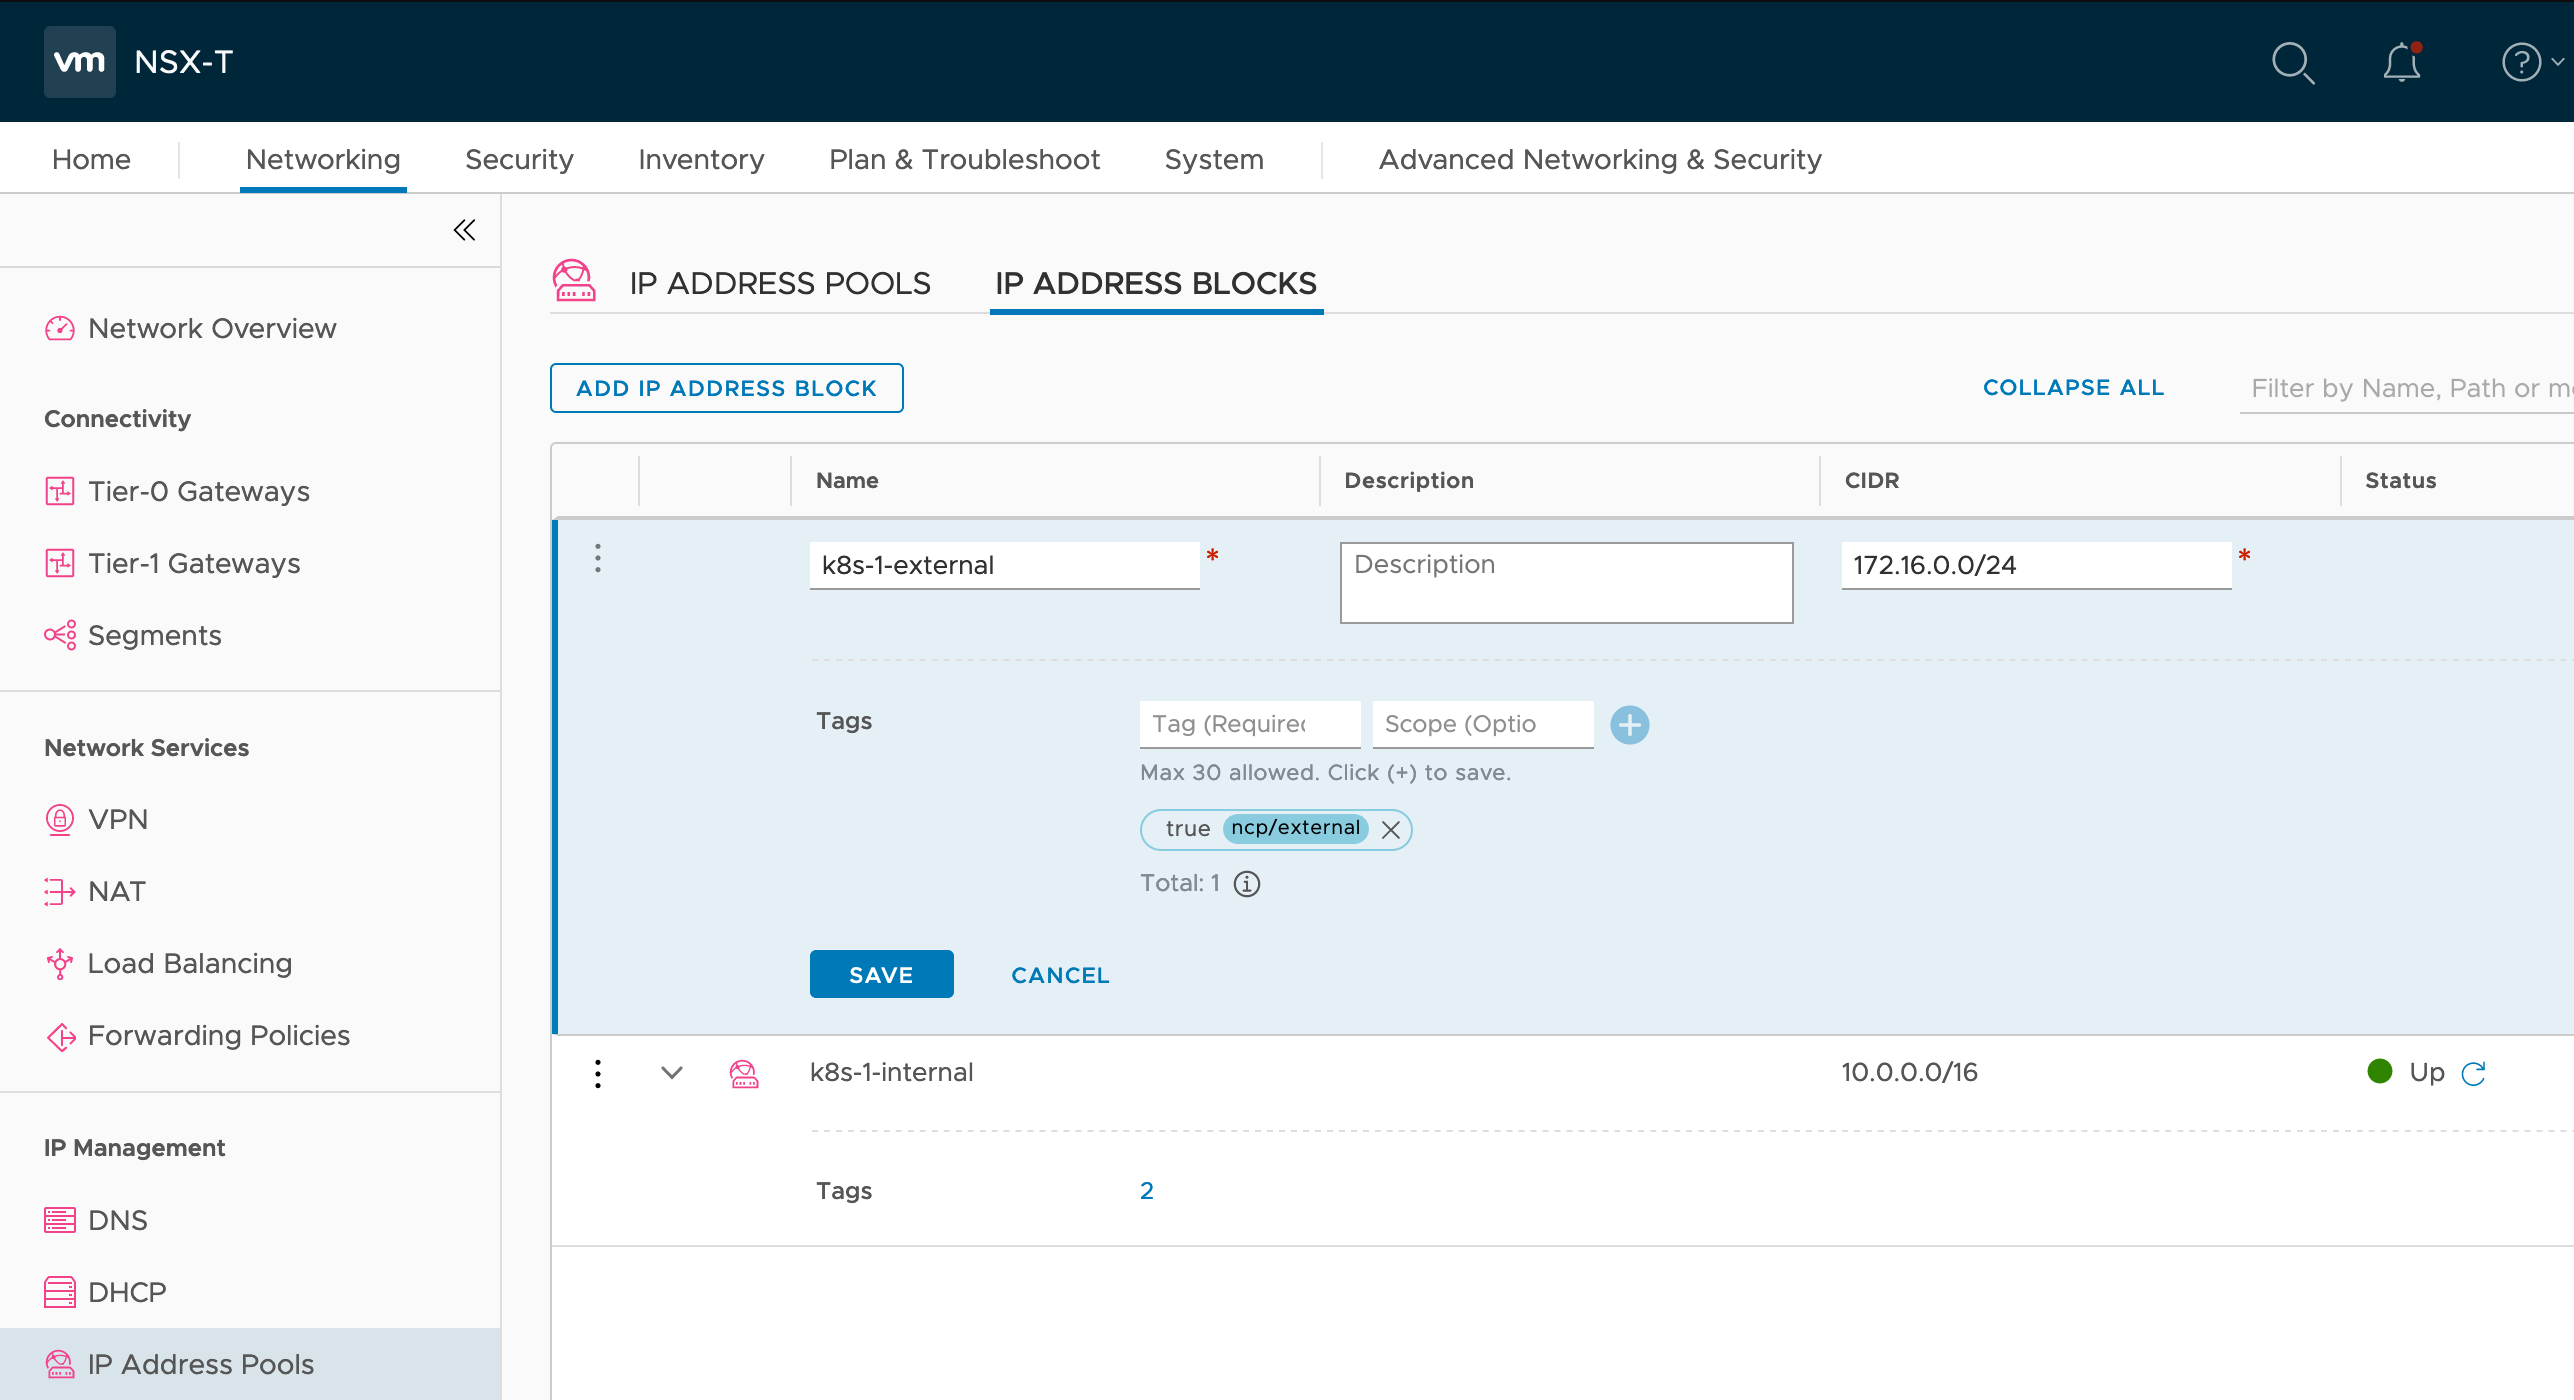
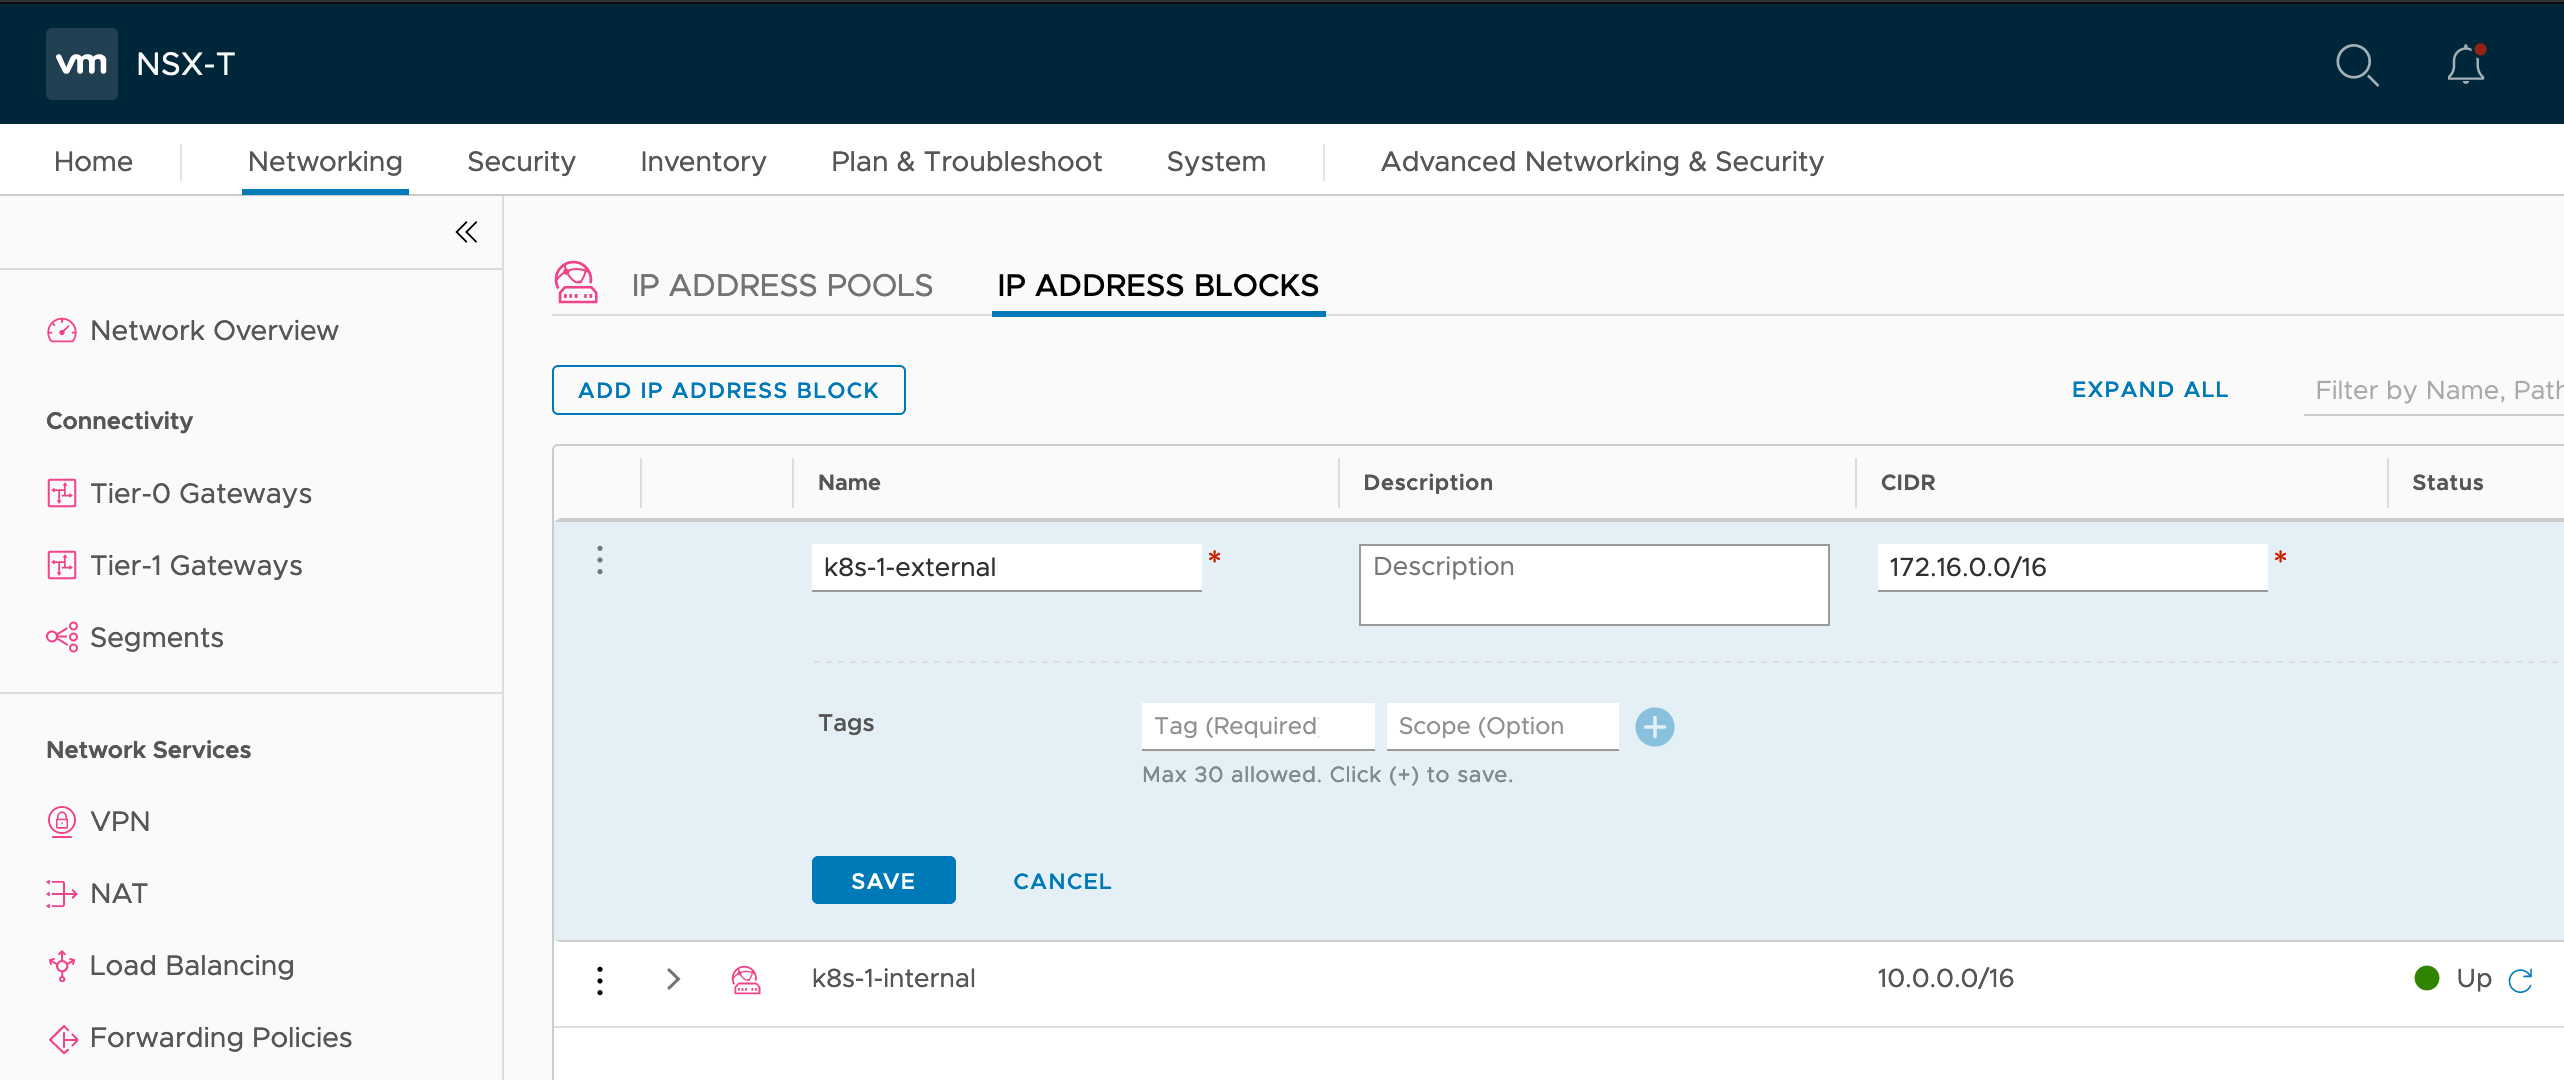
minor text fixes

diff --git a/_posts/2019-12-09-k8s-nsxt.md b/_posts/2019-12-09-k8s-nsxt.md
@@ -43,8 +43,10 @@ Another change I am interested in exploring is the simplified installation. In t
 ## NSX Object Tagging
 There can be many objects deployed within NSX-T, the NSX Container Plugin (NCP) needs to understand which of these objects to interact with. The NSX objects which the NSX Container Plugin (NCP) needs to interact with include the overlay transport zone, the tier-0 logical router, the logical switch to connect the node VMs, the IP Block for Pods IP addressing and an IP Block for external IP addressing. The NSX Container Plugin (NCP) configuration is stored in ncp.ini file. It is possible to put the UUID of NSX objects in the ncp.ini but this great for ongoing maintenance. The mapping of which NSX objects should be used is better achieved by applying tags to the correct NSX objects.
 
-## Configure Tier-0 and Overlay
-In order for the NSX Container Plugin to recognize the Tier-0 Logical Router and overlay transport zone as being for our lab Kubernetes cluster we need to add a tag for ncp/cluster. For this environment I am configuring with cluster name 'pandora' so the Tier-0 Logical Router and overlay transport zone should have tag applied like this:
+For this environment I am configuring with cluster name 'pandora'.
+
+## Configure Tier-0 and Overlay Transport Zone
+In order for the NSX Container Plugin to recognize the Tier-0 Logical Router and overlay transport zone as being for our lab Kubernetes cluster we need to add a tag for scope ncp/cluster. The Tier-0 Logical Router and overlay transport zone should have tag applied like this:
 
 | Tag            | Scope         |
 | -------------- |:-------------:|
@@ -54,36 +56,33 @@ In order for the NSX Container Plugin to recognize the Tier-0 Logical Router and
 
 <img src="/images/k8s-nsxt-overlay.png">
 
-## Configure IP Block and IP Pool
-NSX-T has an inbuilt capability for IP Management, in this we can allocate the blocks of IP Addresses we defined earlier.
+## Configure Pod Internal IP Block
+NSX-T has an inbuilt capability for IP Management, in this we can allocate the blocks of IP Addresses we defined earlier. In order for the NSX Container Plugin to recognize these as being the IP blocks to use for our lab Kubernetes cluster we need to add a tag for ncp/cluster. To recognize an IP Block to issue ClusterIP for the cluster in we also need to add a tag for ncp/no_snat.
 
-In order for the NSX Container Plugin to recognize these as being the IP blocks to use for our lab Kubernetes cluster we need to add a tag for ncp/cluster. To recognize an IP Block to issue ClusterIP for the cluster in we also need to add a tag for ncp/no_snat.
-
-| Tag            | Scope         |
-| -------------- |:-------------:|
-| <cluster_name> | ncp/cluster   |
-| <cluster_name> | ncp/no_snat   |
-
-For this environment I am configuring with cluster name 'pandora' so the IP Blocks for ClusterIP it should be tagged like this:
+Create the 10.0.0.0/16 IP address block named k8s-1-internal with these tags applied.
 
 | Tag            | Scope         |
 | -------------- |:-------------:|
 | pandora        | ncp/no_snat   |
 | pandora        | ncp/cluster   |
 
-Create the 10.0.0.0/16 IP address block named k8s-1-internal with correct tags applied.
-
 <img src="/images/k8s-nsxt-internal-block.png">
 
-When Kubernetes services need to be accessed externally they require an IP Address the NCP can issue these from an NSX IP Pool. Create an IP Block named k8s-1-external with CIDR 172.16.0.0/16. Create an IP Pool named k8s-1-loadbalancer which has a subnet from IP Block k8s-1-external which is sized at 128. In order for the NSX Container Plugin to recognize an IP Pool to issue ExternalIP it should be tagged like this:
+## Configure Pod External IP Block and IP Pool
+
+When Kubernetes services are configured to be accessed externally they require an IP Address the NCP can issue these from an NSX IP Pool. Create an IP Block named k8s-1-external with CIDR 172.16.0.0/16. This IP Block isn't accessed directly by NCP so does not need any tags.
+
+<img src="/images/k8s-nsxt-external-block.png">
+
+Create an IP Pool named k8s-1-loadbalancer which has a subnet from IP Block k8s-1-external which is sized at 128. In order for the NSX Container Plugin to recognize an IP Pool to issue ExternalIP it should be tagged like this:
 
 | Tag            | Scope         |
 | -------------- |:-------------:|
 | true           | ncp/external  |
 
-<img src="/images/k8s-nsxt-external-block.png">
+<img src="/images/k8s-nsxt-external-pool.png">
 
-## Create NSX Logical Switch
+## Configure NSX Logical Switch
 Network connectivity to the containers running in Kubernetes is provided by a NSX-T logical switch segment which is often referred to as the node logical switch. For this I created a new segment called 'node-logical-switch' within the 'overlayTransportZone' connected to no gateway.
 
 In order for the NSX Container Plugin to recognize this Logical Switch for the cluster we also need to add a tag for ncp/cluster. For this environment I am configuring with cluster name 'pandora' so the Logical Switch is tagged like this:
@@ -95,7 +94,7 @@ In order for the NSX Container Plugin to recognize this Logical Switch for the c
 <img src="/images/k8s-nsxt-logical-switch.png">
 
 ## Create Kubernetes Cluster VM
-For the purposes of this we will need a very basic Kubernetes cluster,  create a Ubuntu 18.04 VMs with 2x CPU, 4GB RAM and 50GB vHDD named k8s-master.
+For the purposes of this we will need a very basic Kubernetes cluster,  create a Ubuntu 18.04 VM with 2x CPU, 4GB RAM and 50GB vHDD named k8s-master.
 
 The VM should have two vNIC one which is used to communicate with NSX API and which will host Kubernetes API. The second connected to the node logical switch which will have the Open vSwitch (OVS) bridge configured to give connectivity to the Pods. In my lab first connected to 'VM Network' enumerates as ens160 and the scond connected to 'node-logical-switch' enumerates as ens192.
 
@@ -120,13 +119,6 @@ network:
 
 ## Tag Kubernetes VM Logical Switch Port
 The Kubernetes VM connection to 'node-logical-switch' creates a segment ports object in NSX-T. The NSX-T Container Plug-in (NCP) needs to understand this mapping. To form this relationship two tags should be applied to each segment port:
-
-| Tag            | Scope         |
-| -------------- |:-------------:|
-| <node_name>    | ncp/node_name |
-| <cluster_name> | ncp/cluster   |
-
-For this environment I am configuring with cluster name 'pandora' so the segment port attached to Kubernetes master VM is tagged like this:
 
 | Tag            | Scope         |
 | -------------- |:-------------:|
@@ -198,13 +190,9 @@ We can see this reason for the error is 'NetworkPluginNotReady' that the Contain
 
 ## Install and Configure NSX Container Plug-in (NCP)
 
-The NSX Container Plug-in (NCP) provides integration between NSX-T and Kubernetes, it is a containerised application which manages communicates between NSX Manager and the Kubernetes control plane. As well as the NCP there is a NSX DaemonSet comprised of two containers, the NSX Node Agent and the NSX Kube-Proxy. The NSX Node Agent is a container image which manages the container network interface. The NSX Kube-Proxy is a container image which replaces the native distributed east-west load balancer in Kubernetes with the NSX load-balancer based on Open vSwitch (OVS). The NSX Container Network Interface (CNI) is a plug-in which runs on each Kubernetes node. It provides a connection between the container interface to the node Open vSwitch, and programs the node Open vSwitch to tag and forward container traffic.
+The NSX Container Plug-in (NCP) provides integration between NSX-T and Kubernetes, it is a containerised application which manages communicates between NSX Manager and the Kubernetes control plane. The NSX Container Plug-in (NCP) application runs in Kubernetes it is supplied as .zip download. The configuration of the NCP applications is maintained in a Kubernetes manifest file.
 
-<img src="/images/nsx-k8s.jpeg">
-
-The NSX Container Plug-in (NCP) application runs in Kubernetes it is supplied as .zip download. The configuration of Kubernetes applications is maintained in a manifest file. 
-
-Kubernetes applications also require container image files. The NSX Container Plug-in (NCP) ships with three Docker container images one each for Photon, RHEL and Ubuntu (Kubernetes\nsx-ncp-ubuntu-2.5.0.14628220.tar). We could deploy this to a local container registry like Harbor but for simple lab just import the image to the local repository on all Kubernetes nodes (Master and Worker). Extract from zip and copy the container image to all Kubernetes nodes (Master and Worker). The default container image name specified in the manifest is nsx-ncp so we can apply that as tag on the image.
+The NCP application ships a container image file we could deploy this to a container registry but here we will just upload the image file to VM and import the image to the local docker repository. The default container image name specified in the manifest is nsx-ncp so we can apply that as tag on the image.
 
 ```
 sudo docker load -i /home/ubuntu/nsx-ncp-ubuntu-2.5.1.15287458.tar
@@ -212,9 +200,7 @@ sudo docker image tag registry.local/2.5.1.15287458/nsx-ncp-ubuntu nsx-ncp
 sudo docker images | grep ncp
 ```
 
-The NSX Container Plug-in (NCP) ships with two Kubernetes manifest file yaml templates one each for RHEL and Ubuntu (Kubernetes\ncp-ubuntu.yaml). Prior to the 2.5 release there were multiple  manifest files each targetting a specific resource specification.  These are now merged into a single manifest file with multiple sections with multiple resource specifications the sections can be identified by the separator `---`. The resources are created in the order they appear in the file. 
-
-For this lab we will use mostly default configuration from the supplied manifest file template it does however indicate some mandatory updates to ConfigMap resourcesto reflect the environment.
+Prior to the 2.5 release there were multiple  manifest files each targetting a specific area of configuration.  These are now merged into a single manifest file with multiple sections with multiple resource specifications the sections can be identified by the separator `---`. The resources are created in the order they appear in the file.
 
 | Resource Kind            | Resource Name                        |Comments                                           |
 | ------------------------ |:------------------------------------:|:-------------------------------------------------:|
@@ -235,7 +221,7 @@ For this lab we will use mostly default configuration from the supplied manifest
 | DaemonSet                | nsx-ncp-bootstrap                    |                                                   |
 | DaemonSet                | nsx-node-agent                       |                                                   |
 
-Based on comments in yaml I uncommenting or added  the following parameters,  the values here are appropriate for the lab I am using.
+For this lab I will use mostly default configuration from the supplied manifest file template. The settings I change from what is in template are the following.
 
 ```
 [nsx_v3]
@@ -256,7 +242,7 @@ apiserver_host_port = 6443
 ovs_uplink_port = ens192
 ```
 
-Once the ncp-ubuntu.yaml is updated and docker image in all local registries we can apply the NCP manifest. Applying the manifest takes 5-6 minutes while as it creates various Pods we can watch their creation to view progress.
+Once the manifest file is updated and docker image in local registry we can apply the NCP manifest. Applying the manifest takes a couple of minutes while as it creates various Pods we can watch their creation to view progress.
 
 ```
 kubectl apply --filename /home/ubuntu/ncp-ubuntu.yaml
@@ -298,7 +284,7 @@ NAME         STATUS   ROLES    AGE   VERSION
 k8s-master   Ready    master   3m   v1.16.4
 ```
 
-Now its running we can check health of the NCP, to do this connect to the NCP Pod we find nsxcli where we can run various commands including some health checks.
+Now its running we can check health of the NCP, the NCP has a [CLI](https://docs.vmware.com/en/VMware-NSX-T-Data-Center/2.5/ncp-kubernetes/GUID-EA8E6CEE-36F4-423C-AD1E-DD6421A5FB1C.html) where we can run various commands including health checks.
 
 ```
 kubectl exec -it nsx-ncp-6978b9cb69-prrcq --namespace nsx-system -- /bin/bash 
